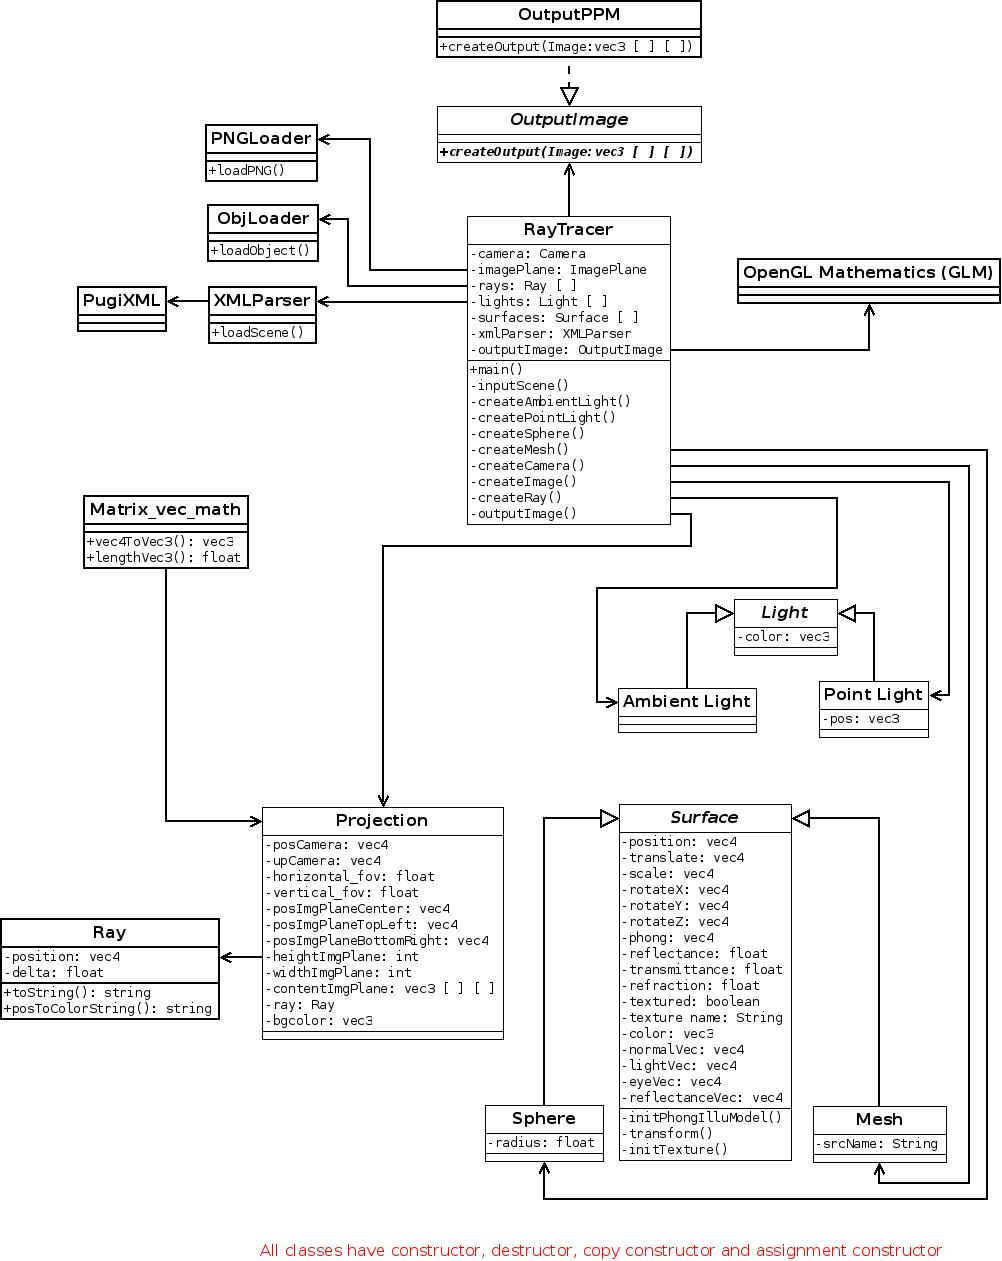
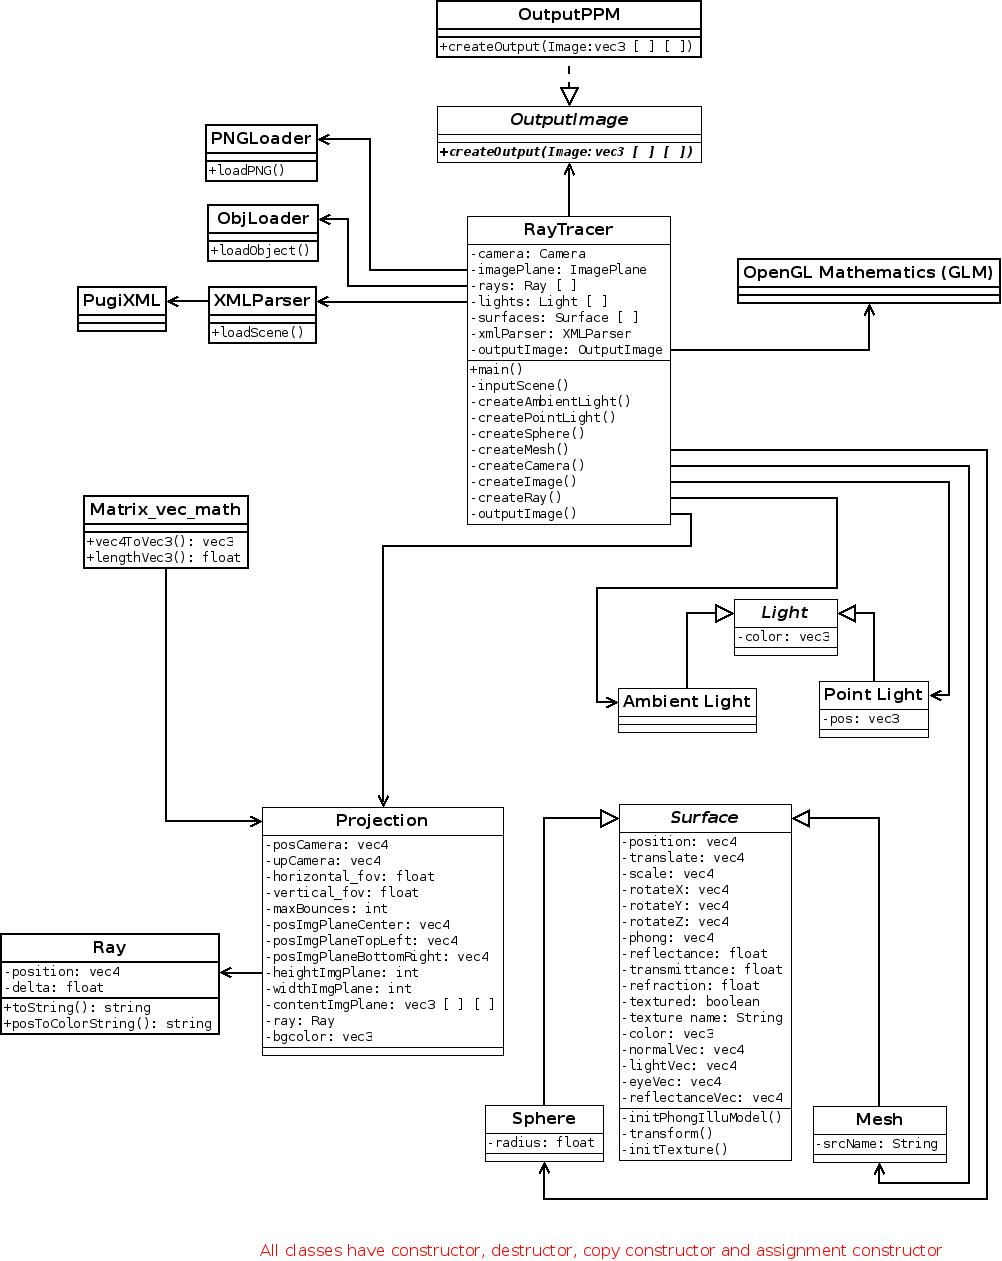
attribut maxBounces added to class Projection

Changed region(s): [[0.0, 0.7113, 0.2475, 0.8351], [0.2784, 0.7113, 0.495, 0.8351]]

diff --git a/ray_tracer/Projection.cpp b/ray_tracer/Projection.cpp
@@ -22,7 +22,7 @@
 using namespace std;
 
 Projection::Projection( glm::vec4 posCamera, glm::vec4 upCamera, glm::vec4 lookAtCamera, \
-		double horizontal_fov, double vertical_fov, int heightImgPlane, int widthImgPlane, glm::vec3 bgcolor ){
+		double horizontal_fov, double vertical_fov, int maxBounces, int heightImgPlane, int widthImgPlane, glm::vec3 bgcolor ){
 
 
 	//INIT VARS FROM PARAMETERS
@@ -33,6 +33,7 @@ Projection::Projection( glm::vec4 posCamera, glm::vec4 upCamera, glm::vec4 lookA
 	this->vertical_fov = vertical_fov;
 	this->heightImgPlane = heightImgPlane;
 	this->widthImgPlane = widthImgPlane;
+	this->maxBounces = maxBounces;
 	this->bgcolor = bgcolor;
 
 
@@ -102,18 +103,19 @@ Projection::Projection( glm::vec4 posCamera, glm::vec4 upCamera, glm::vec4 lookA
 
 };
 Projection::~Projection(){ };
-Projection::Projection( const Projection& ){
+Projection::Projection( const Projection& project){
 	cerr << "Copy assignment constructor should not be used!" << endl;
 
 	//INIT VARS FROM PARAMETERS
-	this->posCamera = posCamera;
-	this->upCamera = upCamera;
-	this->lookAtCamera = lookAtCamera;
-	this->horizontal_fov = horizontal_fov;
-	this->vertical_fov = vertical_fov;
-	this->heightImgPlane = heightImgPlane;
-	this->widthImgPlane = widthImgPlane;
-	this->bgcolor = bgcolor;
+	this->posCamera = project.posCamera;
+	this->upCamera = project.upCamera;
+	this->lookAtCamera = project.lookAtCamera;
+	this->horizontal_fov = project.horizontal_fov;
+	this->vertical_fov = project.vertical_fov;
+	this->heightImgPlane = project.heightImgPlane;
+	this->widthImgPlane = project.widthImgPlane;
+	this->maxBounces = project.maxBounces;
+	this->bgcolor = project.bgcolor;
 
 
 	//COMPUTE TOPLEFT AND BOTTOMRIGHT OF IMGPLANE
@@ -172,6 +174,7 @@ void Projection::print(){
 	cout << "lookAtCamera: " << glm::to_string(lookAtCamera) << endl;
 	cout << "horizontal_fov: " << horizontal_fov << endl;
 	cout << "vertical_fov: " << vertical_fov << endl;
+	cout << "maxBounces: " << maxBounces << endl;
 	cout << "posImgPlaneTopLeft: " << glm::to_string(posImgPlaneTopLeft) << endl;
 	cout << "posImgPlaneBottomRight: " << glm::to_string(posImgPlaneBottomRight) << endl;
 	cout << "heightImgPlane: " << heightImgPlane << endl;

diff --git a/ray_tracer/RayTracer.cpp b/ray_tracer/RayTracer.cpp
@@ -29,11 +29,12 @@ void RayTracer::main() {
 	glm::vec4 lookAtCamera = glm::vec4 ( 0.0, 0.0, -2.5, 1.0 );
 	double horizontal_fov = 45;
 	double vertical_fov = 45;
+	int maxBounces = 8;
 	int heightImgPlane = 512;
 	int widthImgPlane = 512;
 	glm::vec3 bgcolor = glm::vec3( 0.0, 0.0, 0.0 );
 
-	Projection projection( posCamera, upCamera, lookAtCamera, horizontal_fov, vertical_fov, heightImgPlane, widthImgPlane, bgcolor );
+	Projection projection( posCamera, upCamera, lookAtCamera, horizontal_fov, vertical_fov, maxBounces, heightImgPlane, widthImgPlane, bgcolor );
 	projection.print();
 	//projection.printContentImgPlane();
 	string ppmOutput;
@@ -41,9 +42,9 @@ void RayTracer::main() {
 	int height = projection.getHeightImgPlane();
 	ppmOutput = projection.contentImgPlaneToString();
 
-	/*string fileName = "example";
+	string fileName = "example";
 	OutputImage* outputImage = new OutputPPM();
-	outputImage->createOutput( fileName, ppmOutput, "512", height, width );*/
+	outputImage->createOutput( fileName, ppmOutput, "512", height, width );
 
 	glm::vec4 posSphere( 0.0, 0.0, 0.0, 1.0 );
 	Sphere sphere( posSphere, 1.0 );

diff --git a/ray_tracer/Projection.h b/ray_tracer/Projection.h
@@ -23,6 +23,7 @@ class Projection{
 	glm::vec4 lookAtCamera;
 	float horizontal_fov;
 	float vertical_fov;
+	int maxBounces;
 
 	//IMAGE PLANE
 	glm::vec4 posImgPlaneTopLeft;
@@ -41,7 +42,7 @@ class Projection{
 	Projection& operator=( const Projection& );
 public:
 	Projection( glm::vec4 posCamera, glm::vec4 upCamera, glm::vec4 lookAtCamera, \
-			double horizontal_fov, double vertical_fov, int heightImgPlane, int widthImgPlane, glm::vec3 bgcolor );
+			double horizontal_fov, double vertical_fov, int maxBounces, int heightImgPlane, int widthImgPlane, glm::vec3 bgcolor );
 	virtual ~Projection();
 	void print();
 	void printContentImgPlane();
